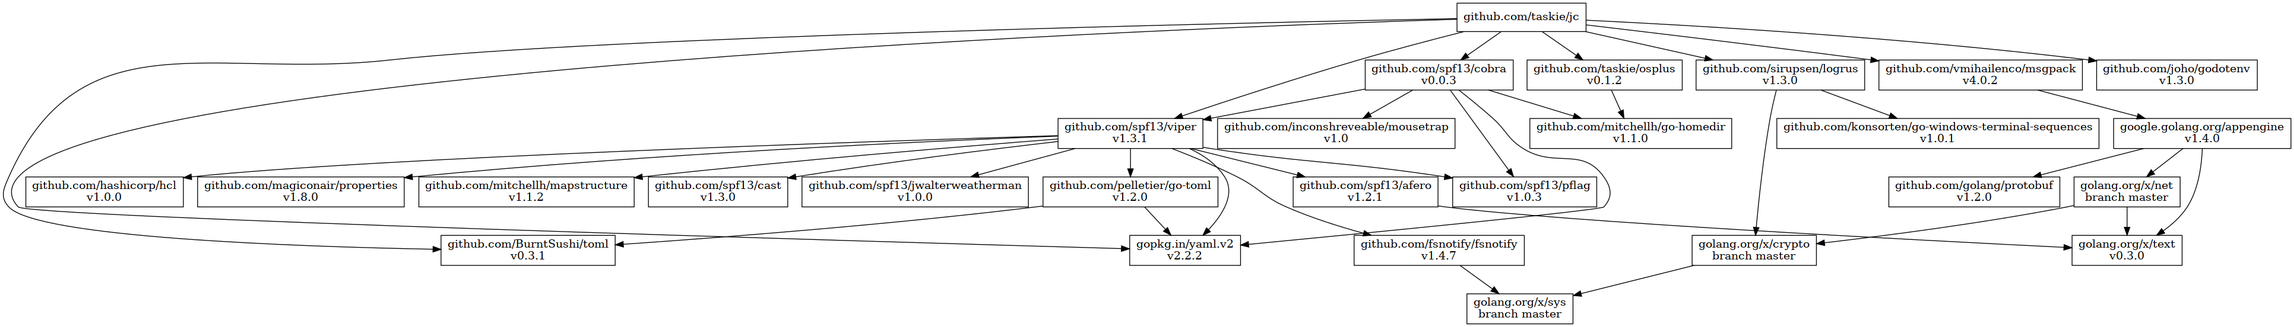
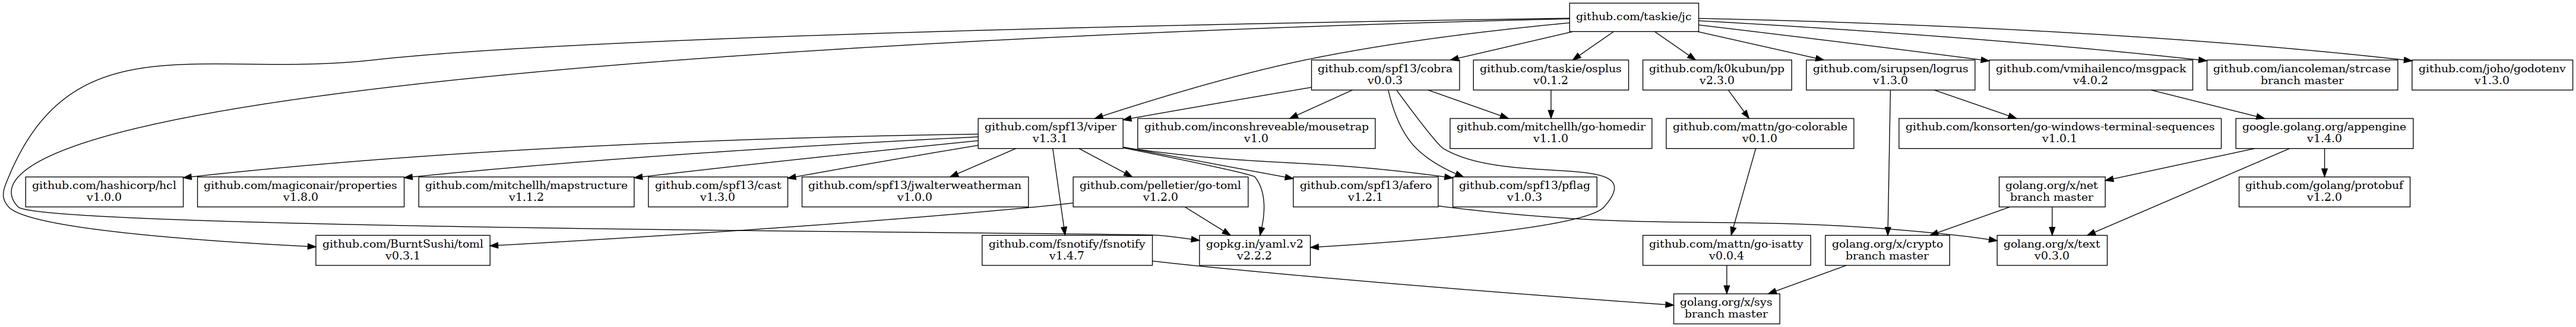
update CLI

diff --git a/cli/jc/cli.go b/cli/jc/cli.go
@@ -4,6 +4,7 @@ import (
 	"fmt"
 	"path/filepath"
 
+	"github.com/iancoleman/strcase"
 	"github.com/k0kubun/pp"
 	log "github.com/sirupsen/logrus"
 	"github.com/spf13/cobra"
@@ -26,16 +27,19 @@ const CommandName = "jc"
 
 func init() {
 	Command.PersistentFlags().StringVarP(&configFile, "config", "c", "", `config file (default "jc.yml")`)
-	Command.Flags().StringP("fromType", "f", "", "convert from [json|toml|yaml|msgpack|dotenv]")
-	Command.Flags().StringP("toType", "t", "", "convert to [json|toml|yaml|msgpack|dotenv]")
+	Command.Flags().StringP("from-type", "f", "", "convert from [json|toml|yaml|msgpack|dotenv]")
+	Command.Flags().StringP("to-type", "t", "", "convert to [json|toml|yaml|msgpack|dotenv]")
 	Command.Flags().StringP("indent", "I", "", "indentation of output")
 	Command.Flags().BoolVarP(&verbose, "verbose", "v", false, "verbose output")
 	Command.Flags().BoolVarP(&debug, "debug", "g", false, "debug output")
 	Command.Flags().BoolVarP(&version, "version", "V", false, "show Version")
 
-	viper.BindPFlag("FromType", Command.Flags().Lookup("fromType"))
-	viper.BindPFlag("ToType", Command.Flags().Lookup("toType"))
-	viper.BindPFlag("Indent", Command.Flags().Lookup("indent"))
+	for _, s := range []string{"from-type", "to-type", "indent"} {
+		envKey := strcase.ToSnake(s)
+		structKey := strcase.ToCamel(s)
+		viper.BindPFlag(envKey, Command.Flags().Lookup(s))
+		viper.RegisterAlias(structKey, envKey)
+	}
 
 	cobra.OnInitialize(initConfig)
 }
